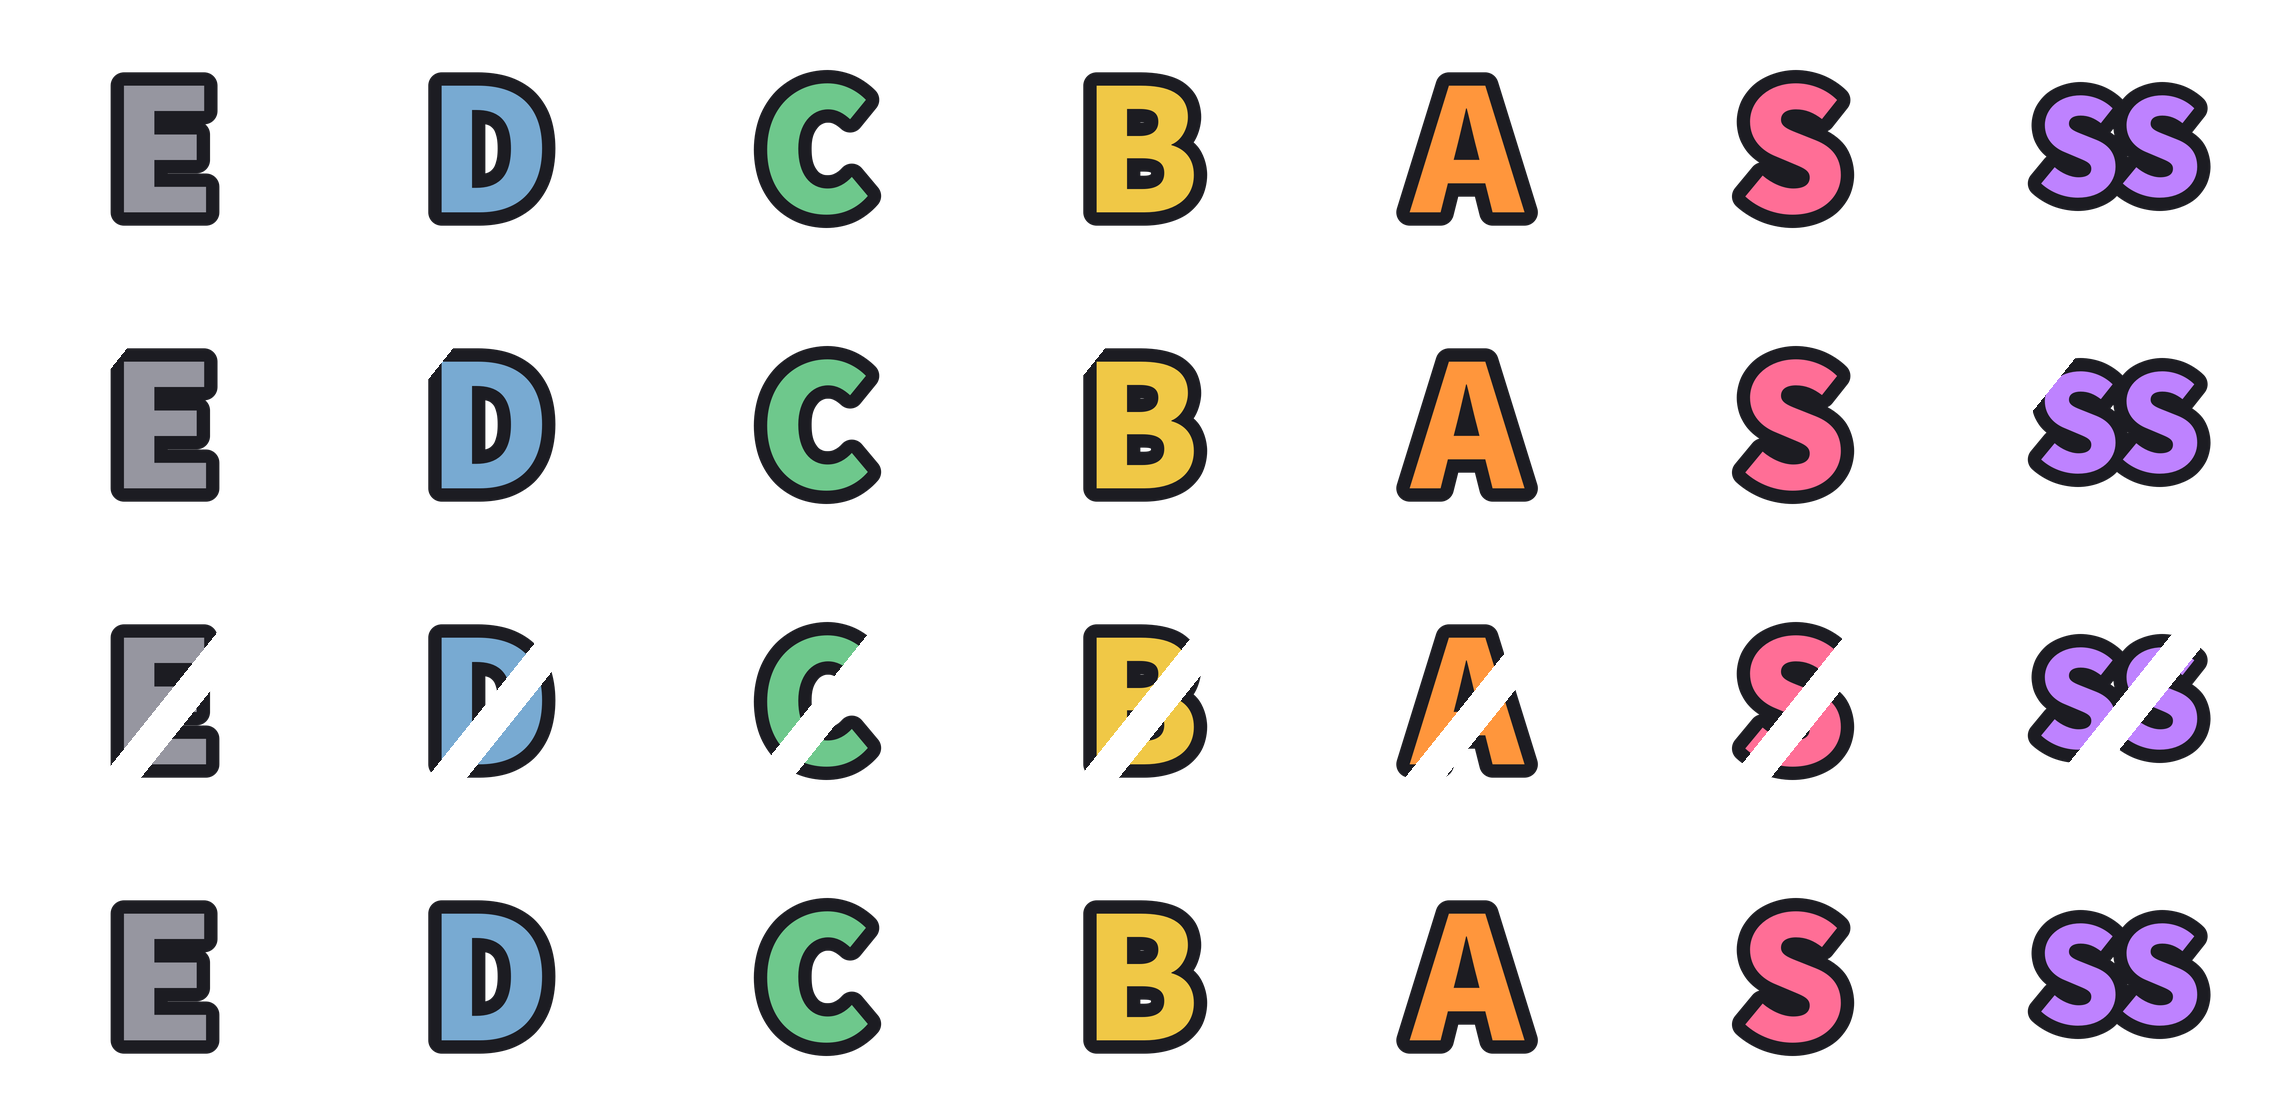
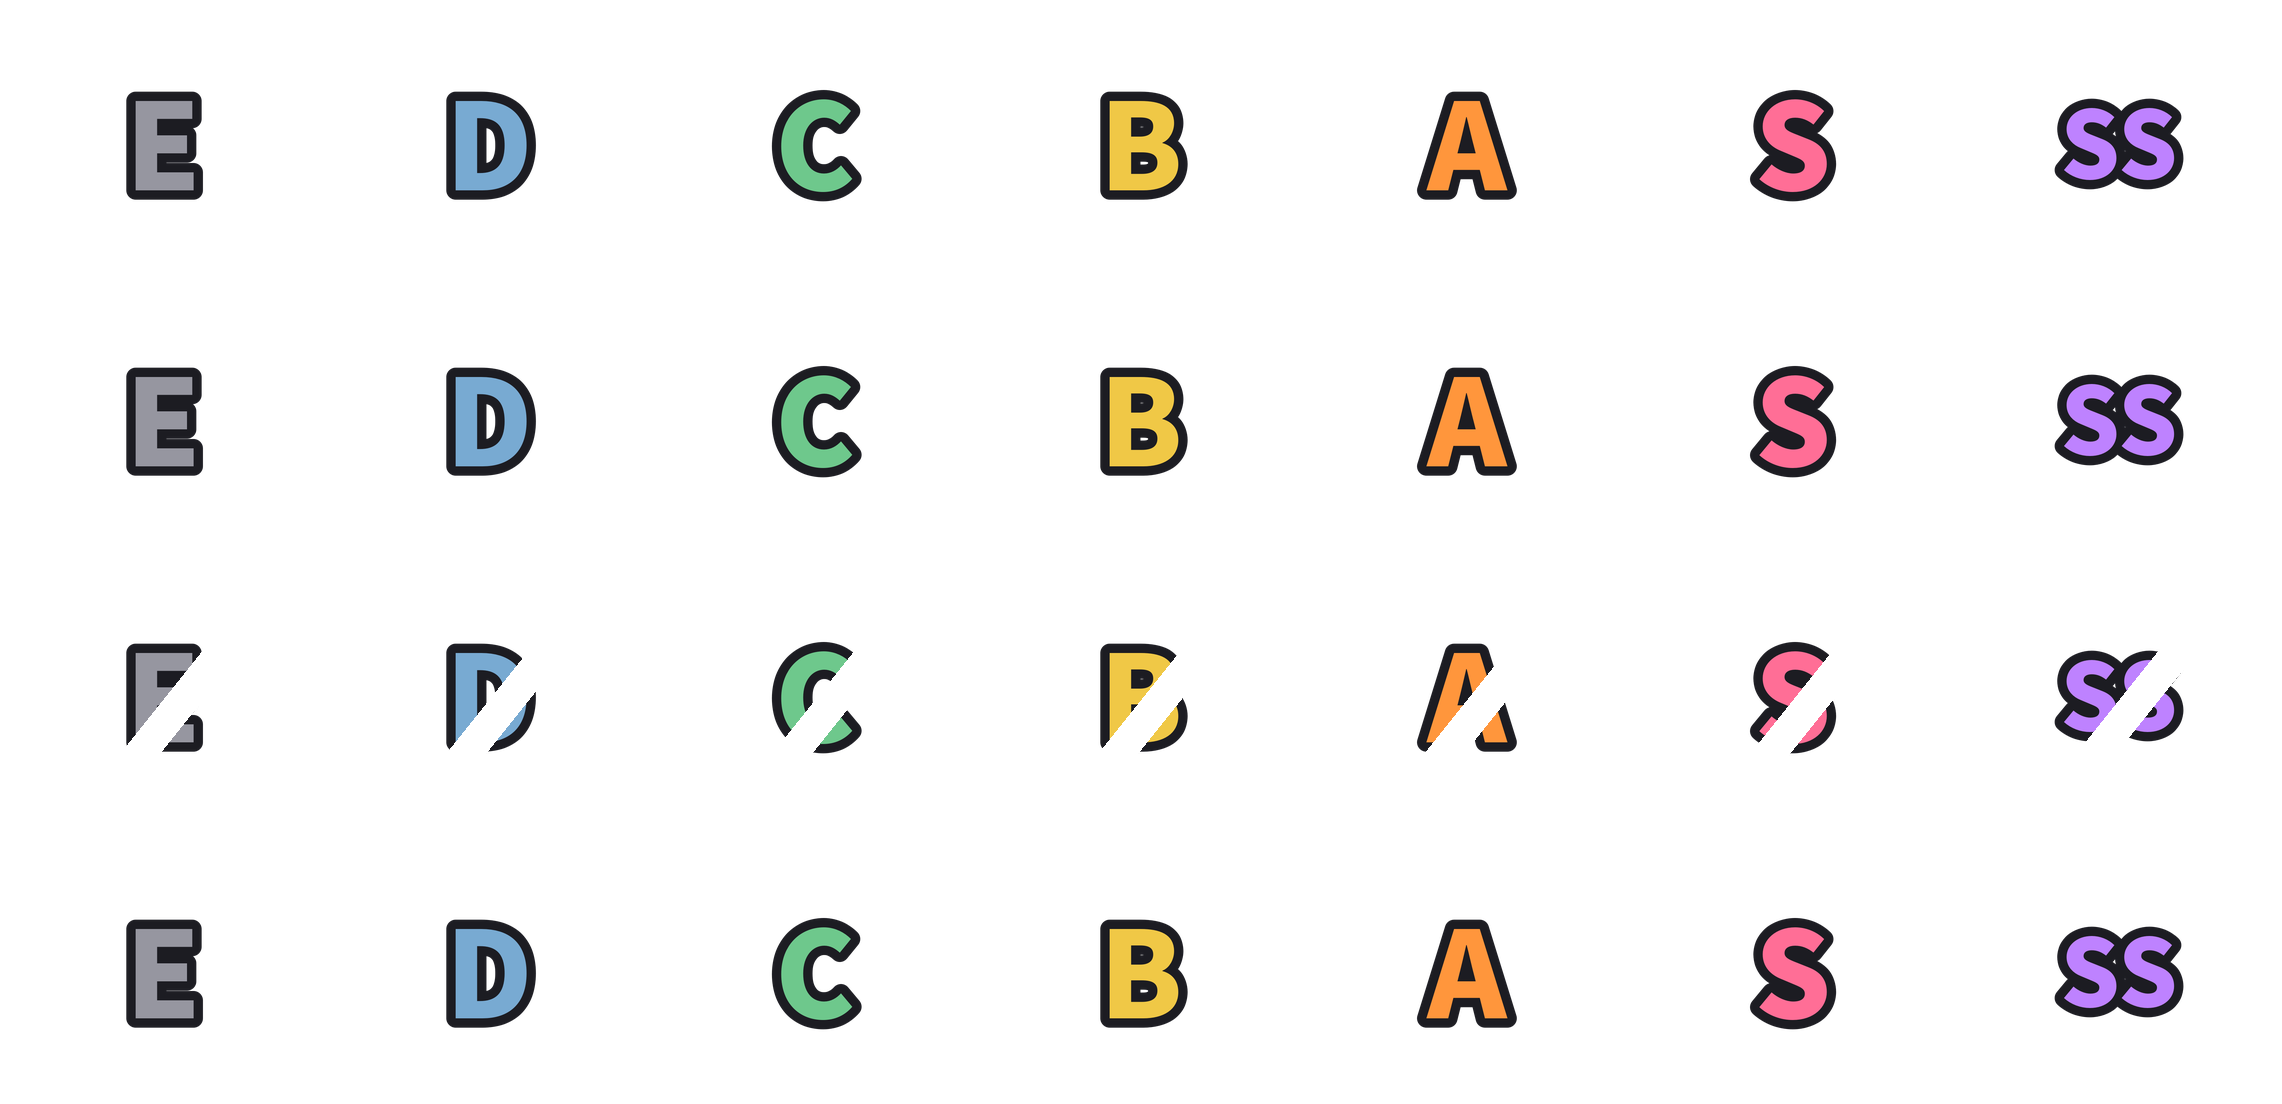
シンプルスキンのバランス：リザルトのランクを小さく・おにの札の線を消す、曲数の札を小さく、演奏画面の曲数・ジャンルの字を大きく
Claude-Session: https://claude.ai/code/session_01DAU9tpBiF8CGAJXqk8DqYG

diff --git a/TakeTaikoSimulator/UI/SongCounter.cs b/TakeTaikoSimulator/UI/SongCounter.cs
@@ -41,7 +41,8 @@ namespace TakeTaikoSimulator.UI
                 return;
             }
             // 絵が無いスキン：同じ形をプログラムで描く（白い左・薄紫の右）
-            Rectangle all = new(x + 12f, y + 10f, 258f, 52f);
+            //   11/15 たけらい「シンプルスキンの曲数、大きい気がする。文字の大きさはいい」：箱を 258×52 → 214×44（右はしはそのまま）
+            Rectangle all = new(x + 56f, y + 14f, 214f, 44f);
             SmoothShapes.Rounded(new Rectangle(all.X, all.Y + 3f, all.Width, all.Height), 1f, 16, Fade(new Color(0, 0, 0, 60), alpha));
             SmoothShapes.Rounded(all, 1f, 16, Fade(new Color(186, 190, 226, 255), alpha));
             SmoothShapes.Rounded(new Rectangle(all.X, all.Y, all.Width * 0.6f, all.Height), 1f, 16, white);
@@ -85,9 +86,10 @@ namespace TakeTaikoSimulator.UI
                     SmoothShapes.Rounded(new Rectangle(area.X, area.Y, 160f, area.Height), 1f, 12, a);
                 }
                 // 録画：「1曲目」は x 1643〜1704、「3曲」は x 1789〜1838、高さ y 107〜131（ふち込み）
-                float thick = 2.5f;
-                OutlinedDetail($"{number}曲目", new Rectangle(1623.5f, PlayY, 100f, 40f), 22f, Fade(Color.Black, countAlpha), a, thick);
-                OutlinedDetail($"{SongsPerPlay}曲", new Rectangle(1763.5f, PlayY, 100f, 40f), 22f, Fade(Color.Black, countAlpha), a, thick);
+                // 細かい字のフォントが無いスキン（シンプル）は、ふつうのフォントで小さく見えるので大きめ（11/15 たけらい「演奏画面の曲数の文字小さい」）
+                float thick = 2.5f, size = FontManager.HasSkinDetail ? 22f : 28f;
+                OutlinedDetail($"{number}曲目", new Rectangle(1623.5f, PlayY, 100f, 40f), size, Fade(Color.Black, countAlpha), a, thick);
+                OutlinedDetail($"{SongsPerPlay}曲", new Rectangle(1763.5f, PlayY, 100f, 40f), size, Fade(Color.Black, countAlpha), a, thick);
             }
             if (genre.Length > 0 && countAlpha < 1f)
             {
@@ -95,7 +97,7 @@ namespace TakeTaikoSimulator.UI
                 if (!MenuSkin.Whole(GenreFolder + "Bar.png", area, Fade(genreColor, g)))
                     SmoothShapes.Rounded(area, 1f, 12, Fade(genreColor, g));
                 // 11/14 TaikøNauts のスクショ：ジャンル名は白い字の高さ 17px・縁 4px（ナムコオリジナルの札はべたぬり (254,112,39)）
-                OutlinedDetail(genre, new Rectangle(area.X + 10f, area.Y, area.Width - 20f, area.Height), 21f, Fade(Color.White, g), Fade(Color.Black, g), 4f);
+                OutlinedDetail(genre, new Rectangle(area.X + 10f, area.Y, area.Width - 20f, area.Height), FontManager.HasSkinDetail ? 21f : 27f, Fade(Color.White, g), Fade(Color.Black, g), 4f);
             }
         }
 

diff --git a/TakeTaikoSimulator/Scenes/Result/ResultScene.cs b/TakeTaikoSimulator/Scenes/Result/ResultScene.cs
@@ -295,9 +295,9 @@ namespace TakeTaikoSimulator.Scenes
             if (SkinManager.GetTexture(PanelImage) is Texture2D panel)
                 Raylib.DrawTexturePro(panel, new Rectangle(0, 0, 960, 1080), new Rectangle(0, 0, 960, 1080),
                     Vector2.Zero, 0f, Color.White);
-            DrawCourse();
             // ゲージは板といっしょに出す（録画では、板が出た 0.1秒後にはもうゲージがあった。数字はそのあと）
             DrawGauge();
+            DrawCourse();   // 難易度の札はゲージのあと（11/15 シンプルで、ゲージの枠の線が「おに」の札の上を横切っていた）
 
             if (elapsed >= RevealTime)
             {

diff --git a/tools/skin-gen/endres.py b/tools/skin-gen/endres.py
@@ -216,7 +216,7 @@ def rank_crown():
     W, H = 326, 276
     base = Canvas(W * 7, H)
     for i in range(7):
-        rank_letter(base, i * W + 163, 138, i, 170)
+        rank_letter(base, i * W + 163, 138, i, 120)   # 11/15 たけらい「スコアランクの大きさのバランスおかしい」：170 → 120
     b = np.array(base.image()).astype(float)
     full = np.zeros((H * 4, W * 7, 4))
     for row in range(4):

diff --git a/AGENTS.md b/AGENTS.md
@@ -1218,3 +1218,4 @@ Order:
 - TextInputBuffer is independent of Raylib and uses grapheme boundaries for keyboard movement, deletion, clipping insertion and click positions. Deletion re-normalizes the caret when adjacent characters form one grapheme. tools/search-input-check compiles the production helper directly:36checks passed.
 - Windows-target source build passed with0errors (existingCS0162 and unavailable NuGet-audit-feed warnings). A hidden Windows Raylib harness invoked the actual search update/draw using native automation keyboard/mouse events:21integration checks passed (navigation, forward/back deletion, mouse placement, long-query scroll, emoji deletion, popup ownership, simulated IME composition/commit/Enter). The actual search modal was rendered and visually inspected with the user's local A-Style font. IME state/result were simulated in the test; physical Japanese IME conversion and full gameplay were not manually tested. Native AOT publish not run. Test-only reflection/native replay are not production code, and no private fonts/images are committed.
 - User explicitly authorized a direct master push for this fix. The preceding mode-title fix was already fast-forwarded to master4097c1d at the user's request; do not treat its earlier review-only note as current authorization state.
+- 11/15 Simple skin balance: result course tab drawn after the gauge (gauge frame line crossed it); Simple ScoreRank letters 170→120 (tools/skin-gen/endres.py rank_crown); code-drawn song-count plate 214×44 (right edge kept); play-screen count/genre text 28/27 when the skin has no detail font.
